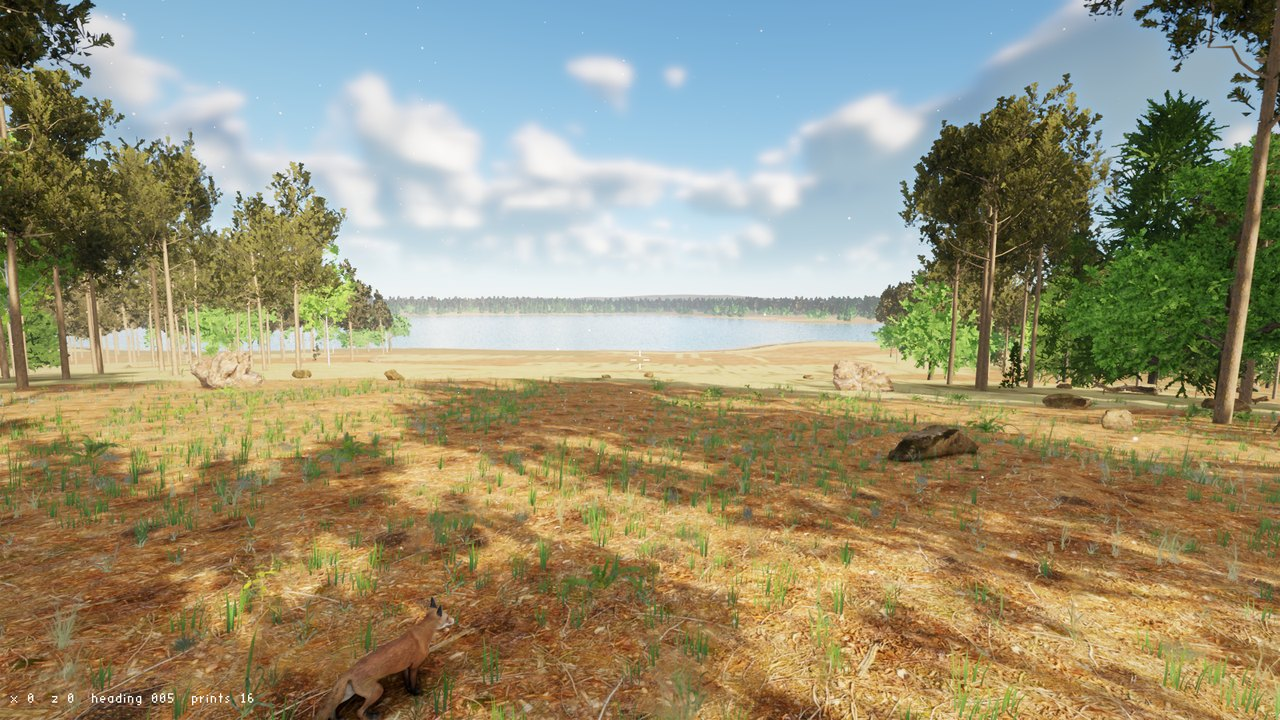
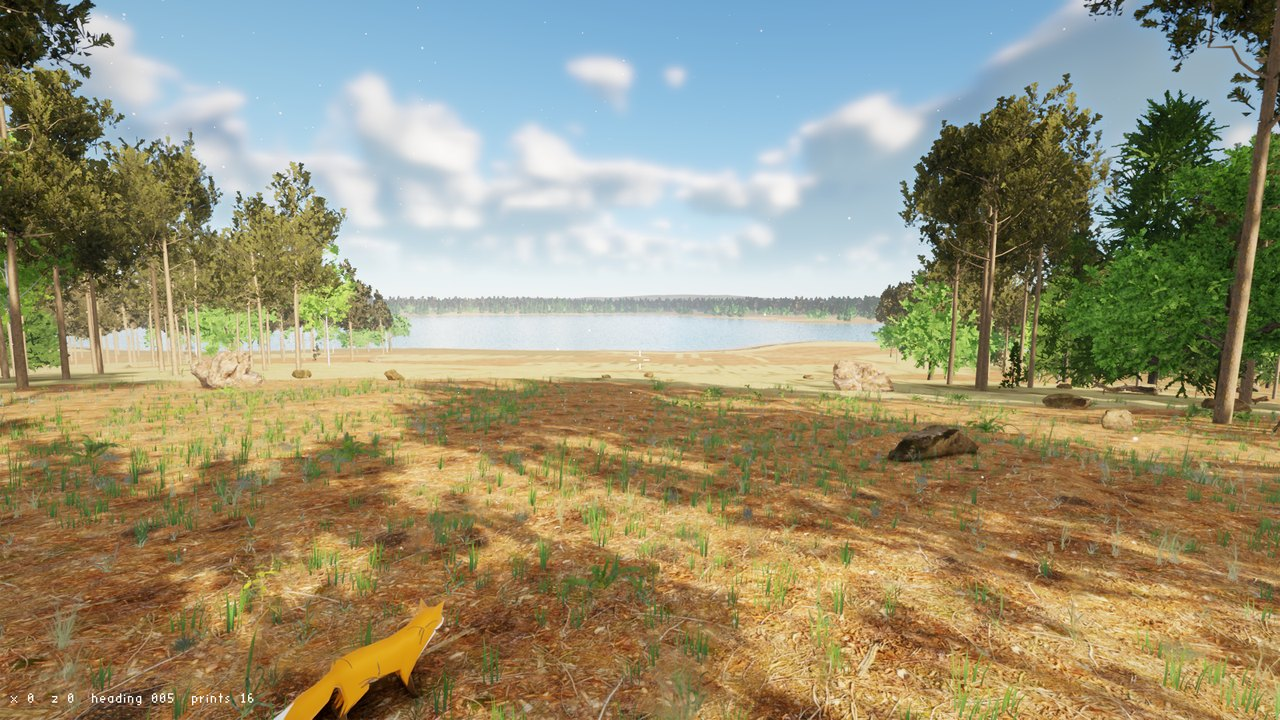
Run forest_scene and model_viewer from the cooked archive alone
Without poligon-assets/source both open poligon-assets/cooked/assets.pak
as it is: forest_scene skips cooking and land generation and reads
assets.txt and forest.level next to itself; model_viewer browses the
models assets.txt names. tools/package_assets.ps1 cooks the release
asset set (CC0 and CC-BY, the Sketchfab fox left out) with the land
into that archive, with tools/assets/ATTRIBUTION.md. The README picture
is retaken with the Khronos fox. CLAUDE.md gets the release entry.

Changed region(s): [[0.2188, 0.825, 0.375, 1.0]]

diff --git a/tools/model_viewer/main.cpp b/tools/model_viewer/main.cpp
@@ -4,7 +4,10 @@
 // CLIP is the name of the animation clip to play (default: the model's first one); C
 // switches to the next clip. With --headless, --ticks N plays N sixtieths of a second
 // before the picture is taken.
-//   Double click (no arguments): browse the models in poligon-assets/source next to the project.
+//   Double click (no arguments): browse the models in poligon-assets/source next to the project,
+//                                or, in a released copy without sources, the models of the
+//                                cooked archive poligon-assets/cooked/assets.pak, by the names
+//                                in assets.txt next to the program.
 //   A folder:                    browse every model in it.
 //   One picture:                 model_viewer tree.glb --headless --dump-frame tree.png
 //
@@ -20,6 +23,8 @@
 #include <vector>
 
 #include "poligon/animation/animation_build.h"
+#include "poligon/assets/assets.h"
+#include "poligon/assets/cooking.h"
 #include "poligon/core/command_line.h"
 #include "poligon/core/crash_handler.h"
 #include "poligon/core/game_loop.h"
@@ -127,6 +132,23 @@ std::vector<std::string> FindDefaultModels(const std::filesystem::path& source) 
     return models;
 }
 
+// The model names of an asset list (released copies: the models of the cooked archive).
+std::vector<std::string> FindListedModels(const std::filesystem::path& list_path) {
+    poligon::AssetList list;
+    std::string error;
+    std::vector<std::string> names;
+    if (!poligon::LoadAssetList(list_path.string().c_str(), list, error)) {
+        std::fprintf(stderr, "model_viewer: %s\n", error.c_str());
+        return names;
+    }
+    for (const poligon::AssetEntry& entry : list.entries) {
+        if (entry.kind == poligon::AssetKind::Model) {
+            names.push_back(entry.name);
+        }
+    }
+    return names;
+}
+
 void PrintModelSummary(const char* path, const poligon::Model& model) {
     const glm::vec3 size = model.bounds_max - model.bounds_min;
     std::printf("model: %s\n", path);
@@ -161,9 +183,12 @@ void PrintModelSummary(const char* path, const poligon::Model& model) {
 
 class ViewerGame : public poligon::Game {
 public:
+    // `library`: when given, model_paths are asset names in it, not files.
     ViewerGame(poligon::Renderer& renderer, const std::vector<std::string>& model_paths, const poligon::Input& input,
-               const ViewerActions& actions, const float view[3], const std::string& start_clip)
-        : renderer_(renderer), model_paths_(model_paths), input_(input), actions_(actions), start_clip_(start_clip) {
+               const ViewerActions& actions, const float view[3], const std::string& start_clip,
+               poligon::AssetLibrary* library = nullptr)
+        : renderer_(renderer), model_paths_(model_paths), input_(input), actions_(actions), start_clip_(start_clip),
+          library_(library) {
         start_view_[0] = view[0];
         start_view_[1] = view[1];
         start_view_[2] = view[2];
@@ -177,24 +202,37 @@ public:
     // current model) if the file cannot be loaded.
     bool ShowModel(size_t index) {
         const std::string& path = model_paths_[index];
-        poligon::Model model;
+        poligon::Model loaded_from_file;
+        const poligon::LoadedModel* cooked = nullptr;
         std::string error;
-        if (!poligon::LoadModelFromFile(path.c_str(), model, error)) {
+        if (library_ != nullptr) {
+            cooked = library_->LoadModel(renderer_, path, error);
+        }
+        if (library_ != nullptr ? cooked == nullptr : !poligon::LoadModelFromFile(path.c_str(), loaded_from_file, error)) {
             std::fprintf(stderr, "model_viewer: %s\n", error.c_str());
             return false;
         }
+        const poligon::Model& model = cooked != nullptr ? cooked->model : loaded_from_file;
         PrintModelSummary(path.c_str(), model);
 
-        poligon::DestroyRenderModel(renderer_, render_model_);
-        render_model_ = poligon::UploadModel(renderer_, model);
+        // A cooked model's render model belongs to the library.
+        player_.reset();
+        if (render_model_owned_) {
+            poligon::DestroyRenderModel(renderer_, render_model_);
+        }
+        render_model_ = cooked != nullptr ? cooked->render : poligon::UploadModel(renderer_, model);
+        render_model_owned_ = cooked == nullptr;
         current_index_ = index;
 
-        // A model with animation clips plays one of them.
-        player_.reset();
+        // A model with animation clips plays one of them (cooked ones come built).
         animations_.reset();
         clip_name_.clear();
-        if (!model.animations.empty()) {
+        if (cooked != nullptr) {
+            animations_ = cooked->animations;
+        } else if (!model.animations.empty()) {
             animations_ = poligon::BuildAnimationSet(model.skeleton, model.animations);
+        }
+        if (animations_ != nullptr) {
             player_ = std::make_unique<poligon::AnimationPlayer>(*animations_);
             const int wanted = animations_->FindClip(start_clip_.c_str());
             if (!start_clip_.empty() && wanted < 0) {
@@ -318,10 +356,12 @@ private:
     const poligon::Input& input_;
     ViewerActions actions_;
     poligon::RenderModel render_model_;
+    bool render_model_owned_ = true;
     std::string start_clip_;
+    poligon::AssetLibrary* library_ = nullptr;
     std::string clip_name_;
     // The player refers to the set, so it is declared after it and destroyed before it.
-    std::unique_ptr<poligon::AnimationSet> animations_;
+    std::shared_ptr<const poligon::AnimationSet> animations_;
     std::unique_ptr<poligon::AnimationPlayer> player_;
     poligon::MeshHandle floor_mesh_;
     poligon::TextureHandle floor_texture_;
@@ -376,13 +416,25 @@ int main(int argc, char** argv) {
     // What to show: one file, every model in a folder, or the default set from poligon-assets.
     std::vector<std::string> model_paths;
     std::error_code file_error;
+    poligon::AssetLibrary library;
+    bool use_library = false;
     if (options.positional.empty()) {
         const std::filesystem::path assets = FindAssetsFolder(argv[0]);
-        if (!assets.empty()) {
+        const std::filesystem::path archive = assets / "cooked" / "assets.pak";
+        const std::filesystem::path list = std::filesystem::absolute(argv[0], file_error).parent_path() / "assets.txt";
+        if (!assets.empty() && std::filesystem::is_directory(assets / "source", file_error)) {
             model_paths = FindDefaultModels(assets / "source");
+        } else if (!assets.empty() && std::filesystem::is_regular_file(archive, file_error) &&
+                   std::filesystem::is_regular_file(list, file_error)) {
+            if (library.Open(archive.string().c_str(), error)) {
+                model_paths = FindListedModels(list);
+                use_library = true;
+            }
+            error.clear();
         }
         if (model_paths.empty()) {
-            error = "No models found. Expected a folder named poligon-assets (with source inside) next to the project folder, "
+            error = "No models found. Expected a folder named poligon-assets next to the project folder (with source inside) "
+                    "or next to the program (with cooked/assets.pak inside, and assets.txt next to the program), "
                     "or start the viewer with a model file: drag a .gltf or .glb file onto model_viewer.exe.";
         }
     } else if (std::filesystem::is_directory(options.positional[0], file_error)) {
@@ -424,7 +476,7 @@ int main(int argc, char** argv) {
     loop_config.input = &input;
 
     const std::string start_clip = options.positional.size() > 4 ? options.positional[4] : std::string();
-    ViewerGame game(renderer, model_paths, input, actions, view, start_clip);
+    ViewerGame game(renderer, model_paths, input, actions, view, start_clip, use_library ? &library : nullptr);
     // Show the first model that loads.
     size_t first = 0;
     while (first < model_paths.size() && !game.ShowModel(first)) {

diff --git a/tools/forest_scene/main.cpp b/tools/forest_scene/main.cpp
@@ -5,11 +5,14 @@
 // loaded from build/terrain_cache. The models and textures are named in assets.txt (next to
 // this file); their sources are in poligon-assets/source, and they are cooked into
 // poligon-assets/cooked when the program starts, whenever the list or a source changed
-// (poligon/assets/assets.h). The land's settings, its ground layers, the player's start,
-// things put by hand and the rules that plant the forest, the shore and the ground cover are
-// in forest.level (poligon/world/level.h, poligon/world/plant_rules.h). The land is streamed
-// (poligon/world/streaming.h): cooked into 512 m patches with the other assets, and loaded
-// in a window around the camera. Walking flattens grass into paths (poligon/world/trample.h).
+// (poligon/assets/assets.h). A released copy has no sources: then poligon-assets/cooked holds
+// one archive, assets.pak (made by tools/package_assets.ps1), with the land already cooked,
+// and assets.txt and forest.level lie next to the program. The land's settings, its ground
+// layers, the player's start, things put by hand and the rules that plant the forest, the
+// shore and the ground cover are in forest.level (poligon/world/level.h,
+// poligon/world/plant_rules.h). The land is streamed (poligon/world/streaming.h): cooked into
+// 512 m patches with the other assets, and loaded in a window around the camera. Walking
+// flattens grass into paths (poligon/world/trample.h).
 //
 // Usage: forest_scene [X Z TURN TILT [collision] [lights]] [standard Poligon options]
 //   X Z         where to stand, in meters from the start (default 0 0): a slope above
@@ -615,10 +618,20 @@ private:
     }
 
     // Cooks what changed since the last run (sources in poligon-assets/source, cooked files
-    // in poligon-assets/cooked) and opens the cooked folder.
+    // in poligon-assets/cooked) and opens the cooked folder. Without sources it opens the
+    // archive cooked/assets.pak instead.
     void OpenAssets(const std::filesystem::path& list_path, const std::filesystem::path& cooked) {
         poligon::AssetList list;
         std::string error;
+        std::error_code exists_error;
+        cooked_only_ = !std::filesystem::is_directory(sources_, exists_error);
+        if (cooked_only_) {
+            const std::filesystem::path archive = cooked / "assets.pak";
+            if (!library_.Open(archive.string().c_str(), error)) {
+                std::printf("forest_scene: %s\n", error.c_str());
+            }
+            return;
+        }
         if (!poligon::LoadAssetList(list_path.string().c_str(), list, error)) {
             std::printf("forest_scene: %s\n", error.c_str());
         } else {
@@ -678,7 +691,9 @@ private:
         std::string error;
         bool cooked = false;
         const auto started = std::chrono::steady_clock::now();
-        if (!poligon::CookLevelWorld(level_, ground_layers_, cooked_.string().c_str(), terrain_cache_.string().c_str(), cooked, error)) {
+        // A released copy has the land in its archive already.
+        if (!cooked_only_ &&
+            !poligon::CookLevelWorld(level_, ground_layers_, cooked_.string().c_str(), terrain_cache_.string().c_str(), cooked, error)) {
             poligon::FatalError(("forest_scene: " + error).c_str());
         }
         std::printf("forest_scene: land %s in %.1f s\n", cooked ? "generated and cooked into patches" : "cooked already",
@@ -1152,6 +1167,8 @@ private:
 
     poligon::Renderer& renderer_;
     std::filesystem::path sources_;
+    // No sources: the cooked archive is used as it is (a released copy).
+    bool cooked_only_ = false;
     const poligon::Input& input_;
     ForestActions actions_;
 
@@ -1482,8 +1499,10 @@ int main(int argc, char** argv) {
 
     const std::filesystem::path assets = FindAssetsFolder(argv[0]);
     std::error_code assets_error;
-    if (assets.empty() || !std::filesystem::is_directory(assets / "source", assets_error)) {
-        const char* message = "No folder named poligon-assets, with the asset sources in its folder source, found next to the project folder.";
+    if (assets.empty() || (!std::filesystem::is_directory(assets / "source", assets_error) &&
+                           !std::filesystem::is_regular_file(assets / "cooked" / "assets.pak", assets_error))) {
+        const char* message = "No folder named poligon-assets found next to the program or the project folder, with the asset "
+                              "sources in its folder source or the cooked archive cooked/assets.pak.";
         std::fprintf(stderr, "forest_scene: %s\n", message);
         if (started_by_hand) {
             poligon::ShowMessageBox("Poligon forest scene", message);
@@ -1544,11 +1563,15 @@ int main(int argc, char** argv) {
 
     const auto load_start = std::chrono::steady_clock::now();
     // Generated land is kept in the build folder (the program runs from build/PRESET/bin);
-    // the asset list is in the project's tools/forest_scene.
+    // the asset list and the level are in the project's tools/forest_scene, or, in a released
+    // copy, next to the program.
     std::error_code path_error;
-    const std::filesystem::path build_folder =
-        std::filesystem::absolute(argv[0], path_error).parent_path().parent_path().parent_path();
-    const std::filesystem::path scene_folder = build_folder.parent_path() / "tools" / "forest_scene";
+    const std::filesystem::path program_folder = std::filesystem::absolute(argv[0], path_error).parent_path();
+    const std::filesystem::path build_folder = program_folder.parent_path().parent_path();
+    std::filesystem::path scene_folder = build_folder.parent_path() / "tools" / "forest_scene";
+    if (std::filesystem::is_regular_file(program_folder / "forest.level", path_error)) {
+        scene_folder = program_folder;
+    }
     ForestGame game(renderer, assets, build_folder, scene_folder / "assets.txt", scene_folder / "forest.level", input, actions, view,
                     options.positional.size() >= 3, settings, settings_path, options.headless);
     const auto has_word = [&options](const char* word) {

diff --git a/tools/assets/ATTRIBUTION.md b/tools/assets/ATTRIBUTION.md
@@ -1,0 +1,84 @@
+# Assets of the Poligon release archive: authors, sources and licenses
+
+The archive `cooked/assets.pak` holds the assets below, cooked by Poligon's `asset_cooker`
+(textures block-compressed and some made smaller, meshes with simpler levels of detail made
+in Blender, animations converted to ozz-animation archives). Licenses were checked at their
+sources on 2026-10-26.
+
+- **CC0 1.0** (https://creativecommons.org/publicdomain/zero/1.0/): no conditions; the authors
+  are named here as thanks.
+- **CC-BY 4.0** (https://creativecommons.org/licenses/by/4.0/): may be shared and changed for
+  any purpose, as long as the authors are credited as below. Changes made: converted to
+  Poligon's cooked format.
+- **MIT** (text below): may be used for any purpose, as long as the copyright notice and the
+  license text go with it.
+
+## Made by Poligon itself (MIT, the license of Poligon)
+
+- The land: made by the engine's terrain generator from the settings in `forest.level`.
+- Tree meshes (pine, spruce, birch, oak, two of each, young pine and spruce): generated by
+  `tools/assets/make_tree.mjs` with EZ-Tree (https://github.com/dgreenheck/ez-tree, MIT,
+  Copyright (c) 2024 Daniel Greenheck) from our recipes; the textures on them are listed below.
+- Tree impostors (pictures of the trees from many sides): baked by Poligon's `impostor_baker`.
+- Reeds, cattails, water lilies, grass blades and flowers: made by code at run time, not stored.
+
+## Models
+
+| Asset | Title and author | Source | License |
+|---|---|---|---|
+| `animals/fox_sample` | "Fox": model by PixelMannen (CC0); rigging and animation by tomkranis (CC-BY 4.0); conversion to glTF by @AsoboStudio and @scurest (CC-BY 4.0) | https://github.com/KhronosGroup/glTF-Sample-Assets/tree/main/Models/Fox | CC0 1.0 and CC-BY 4.0 |
+| `plants/shrub` | "Shrub 02" by Rico Cilliers | https://polyhaven.com/a/shrub_02 | CC0 1.0 |
+| `plants/low_shrub` | "Shrub 03" by Rico Cilliers | https://polyhaven.com/a/shrub_03 | CC0 1.0 |
+| `plants/fern` | "Fern 02" by Rob Tuytel, Rico Cilliers | https://polyhaven.com/a/fern_02 | CC0 1.0 |
+| `plants/nettle` | "Nettle Plant" by Rob Tuytel, Rico Cilliers | https://polyhaven.com/a/nettle_plant | CC0 1.0 |
+| `plants/grass` | "Grass Bermuda 01" by Rico Cilliers | https://polyhaven.com/a/grass_bermuda_01 | CC0 1.0 |
+| `plants/grass_medium` | "Grass Medium 01" by Rob Tuytel, Rico Cilliers | https://polyhaven.com/a/grass_medium_01 | CC0 1.0 |
+| `plants/grass_tall` | "Grass Medium 02" by Rico Cilliers | https://polyhaven.com/a/grass_medium_02 | CC0 1.0 |
+| `rocks/boulder` | "Boulder 01" by Rico Cilliers | https://polyhaven.com/a/boulder_01 | CC0 1.0 |
+| `rocks/mossy_rocks` | "Rock Moss Set 01" by Kless Gyzen | https://polyhaven.com/a/rock_moss_set_01 | CC0 1.0 |
+| `wood/stump` | "Tree Stump 01" by Rob Tuytel | https://polyhaven.com/a/tree_stump_01 | CC0 1.0 |
+| `wood/fallen_trunk` | "Dead Tree Trunk 02" by Jenelle van Heerden, Rico Cilliers | https://polyhaven.com/a/dead_tree_trunk_02 | CC0 1.0 |
+
+## Textures
+
+| Used for | Title and author | Source | License |
+|---|---|---|---|
+| ground `forest_floor` | "Forest Ground 01" by Rob Tuytel | https://polyhaven.com/a/forrest_ground_01 | CC0 1.0 |
+| ground `litter` | "Forest Leaves 04" by Rob Tuytel | https://polyhaven.com/a/forest_leaves_04 | CC0 1.0 |
+| ground `grass` | "Grass Ground" by Charlotte Baglioni | https://polyhaven.com/a/grass_ground | CC0 1.0 |
+| ground `mud` | "Brown Mud 02" by Rob Tuytel | https://polyhaven.com/a/brown_mud_02 | CC0 1.0 |
+| ground `sand` | "Gravelly Sand" by Dario Barresi | https://polyhaven.com/a/gravelly_sand | CC0 1.0 |
+| ground `stones` | "River Small Rocks" by Rob Tuytel, Rico Cilliers | https://polyhaven.com/a/river_small_rocks | CC0 1.0 |
+| ground `rock` | "Aerial Rocks 02" by Rob Tuytel | https://polyhaven.com/a/aerial_rocks_02 | CC0 1.0 |
+| pine twigs | "Pine Tree 01" (its twig texture) by Rob Tuytel, Rico Cilliers | https://polyhaven.com/a/pine_tree_01 | CC0 1.0 |
+| spruce bark and twigs | "Fir Tree 01" (its bark and twig textures) by Rob Tuytel, Rico Cilliers | https://polyhaven.com/a/fir_tree_01 | CC0 1.0 |
+| pine bark | "Bark 014" | https://ambientcg.com/view?id=Bark014 | CC0 1.0 |
+| oak bark | "Bark Brown 02" by Rob Tuytel, as shipped with EZ-Tree | https://polyhaven.com/a/bark_brown_02 | CC0 1.0 |
+| birch bark | "Birch Tree Bark Texture (Wood 0027)", as shipped with EZ-Tree | https://www.texturecan.com/details/221/ | CC0 1.0 |
+| birch leaves (`aspen_color.png`), oak leaves (`oak_color.png`) | shipped with EZ-Tree by Daniel Greenheck; no other source named | https://github.com/dgreenheck/ez-tree | MIT (the license of EZ-Tree, below) |
+
+## The MIT license of EZ-Tree
+
+```
+MIT License
+
+Copyright (c) 2024 Daniel Greenheck
+
+Permission is hereby granted, free of charge, to any person obtaining a copy
+of this software and associated documentation files (the "Software"), to deal
+in the Software without restriction, including without limitation the rights
+to use, copy, modify, merge, publish, distribute, sublicense, and/or sell
+copies of the Software, and to permit persons to whom the Software is
+furnished to do so, subject to the following conditions:
+
+The above copyright notice and this permission notice shall be included in all
+copies or substantial portions of the Software.
+
+THE SOFTWARE IS PROVIDED "AS IS", WITHOUT WARRANTY OF ANY KIND, EXPRESS OR
+IMPLIED, INCLUDING BUT NOT LIMITED TO THE WARRANTIES OF MERCHANTABILITY,
+FITNESS FOR A PARTICULAR PURPOSE AND NONINFRINGEMENT. IN NO EVENT SHALL THE
+AUTHORS OR COPYRIGHT HOLDERS BE LIABLE FOR ANY CLAIM, DAMAGES OR OTHER
+LIABILITY, WHETHER IN AN ACTION OF CONTRACT, TORT OR OTHERWISE, ARISING FROM,
+OUT OF OR IN CONNECTION WITH THE SOFTWARE OR THE USE OR OTHER DEALINGS IN THE
+SOFTWARE.
+```

diff --git a/CLAUDE.md b/CLAUDE.md
@@ -37,6 +37,7 @@ This file is the table of contents and the rule book. Details live in topic file
 - On 2026-10-25 and 2026-10-26 (packages 3a and 3b of the author's list for a theHunter Classic port): world positions are double and the renderer draws relative to the camera (Jolt built with double precision from `ports/joltphysics`); the world is streamed by patches (`poligon/world/streaming.h`, `land.h`): the generated land is cooked whole into 512 m patch files, and terrain, collisions, water, plants and sky occlusion are loaded in windows around the camera or the player, with a coarse far background; `forest_scene` runs on it. Decided on 2026-10-26: the terrain generator stays a simulation of the whole land, run when the land is cooked (a 32 km reserve would need a tiled generator later).
 - Package 4 (2026-10-26): render targets for a second camera (`Renderer::CreateRenderTarget`), blended transparency (`Material::blend`), the sky from Hillaire's atmosphere model with the sun placed by time of day, day and latitude (`poligon/render/sky.h`, `SkyModel::Atmosphere`, used by `forest_scene`), point and spot lights with screen tiles on the processor and up to four spot shadows (`Renderer::DrawLight`). Over 800 frames medium is 6.3 to 9.0 ms in the four views and high 8.8 to 13.5 ms (0.4 to 0.7 ms more than before the package). 16 lights cost 0.7 to 2.1 ms depending on range and preset, above the 0.5 ms asked for; the author decides what next. Moon, stars and the night sky are not done.
 - Package 5 (2026-10-26): leaving out what hills hide (`poligon/world/terrain_occlusion.h`), occlusion culling by the depth of an earlier frame (on from high), AgX tone mapping, Intel's XeGTAO in place of our ambient occlusion. FSR 2 was stopped: as it is it does not fit SDL GPU's bindings; `docs/en/rendering_roadmap.md` gives what it would take. Over 800 frames at 1920 x 1080 on the GTX 980: low 3.5 to 4.9 ms in the four views, medium 6.1 to 8.5, high 8.7 to 13.2, ultra 18.6 to 35.3.
+- Release 0.1.0 (2026-10-26): the engine under MIT (`LICENSE`, holder Hubmac), `THIRD_PARTY_LICENSES.md`, `README.md` and `README.pl.md`, the program package made by `tools\package.ps1` (dynamic C++ runtime: the VC++ Redistributable is required) and the asset archive made by `tools\package_assets.ps1` (only CC0, CC-BY and approved assets, `tools\assets\ATTRIBUTION.md`); `forest_scene` and `model_viewer` run from the cooked archive alone. Local annotated tag `v0.1.0`; the author adds the remote and the GitHub Release.
 - Decided on 2026-10-15: `forest_scene` moves from the Batorz map to terrain generated by the engine. The TIFF reader, `HeightMap` and the Batorz data in `poligon-assets` stay; nothing is deleted.
 - The terrain is real: the middle 6 x 6 km around Batorz (50.861443 N, 22.496135 E) from Geoportal, one height per meter, at scale 1:1 (squeezing it to pronounce the hills was tried on paper and dropped by the author on 2026-10-14; the land has enough gullies as it is). Data and maps are in `poligon-assets/source/terrain/batorz`. Done: `HeightMap`, the TIFF reader, `terrain_tool`, `Terrain` (patches from a quadtree, heights read from an image in the vertex shader, ground layers from texture arrays and weight maps), height-field physics. `forest_scene` used it until 2026-10-15 and now runs on generated terrain (cached in `build/terrain_cache`), starting on a hill with a lake in view.
 - Asset system, agreed on 2026-10-14, built in full from 2026-10-15 to 2026-10-17 (the last part: clips cooked as ozz-animation archives): (1) one game data folder with `source` and `cooked` halves, (2) an asset list in the repository giving every asset a name and its settings, (3) `asset_cooker` that turns sources into fast-loading files (compressed textures, meshes with levels of detail, ozz animations), (4) loading by name through one entry point, (5) a level file in plain text (terrain, light, plant rules, placed objects, player start), (6) for a released game, archives in a format of our own with hashed names and **no encryption** (the author chose the middle level: keeps casual hands out, like theHunter's archives; encryption was judged not worth it). Text formats follow the style of the render settings file.

diff --git a/docs/pl/assets.md b/docs/pl/assets.md
@@ -61,6 +61,22 @@ const poligon::CompressedImage* layer = library.LoadImage("ground/litter_color",
 - `LoadedModel` trzyma dane modelu (wierzchołki dla fizyki i rozstawiania, szkielet, klipy), jego `RenderModel`, siatki prostszych poziomów (także ze szkieletem, pozowane szkieletem pełnego modelu) i impostor. `MakeMeshLodGroup(loaded, instance, distances)` zamienia jedną siatkę i jej prostsze poziomy w `MeshLodGroup` dla `Renderer::DrawMesh` lub `DrawSkinnedMesh` (patrz rendering.md).
 - `Renderer::CreateTexture(const CompressedImage&)` i `CreateTextureArray(const CompressedImage*, count)` przyjmują wypieczone obrazy tak, jak są; `CreateImpostor` ma wersję dla skompresowanych obrazów.
 
+## Archiwum zasobów wydania
+
+`tools\package_assets.ps1` robi `poligon-WERSJA-assets.zip` do wydania: zasoby z
+`tools\forest_scene\assets.txt` bez tych wymienionych w `-Exclude` (zasobów, których licencja
+nie pozwala ich rozdawać; domyślnie `animals/fox`, którego licencja jest niejasna), wypieczone
+od nowa z `poligon-assets\source` razem z lądem z `forest.level` i spakowane do
+`poligon-assets\cooked\assets.pak`, z `ATTRIBUTION.md` (z `tools\assets\ATTRIBUTION.md`:
+autor, tytuł, odnośnik i licencja każdego zasobu) i `README.txt`. Bez `-Zip` kończy na
+folderze, żeby listę można było najpierw sprawdzić.
+
+Wydana kopia nie ma źródeł: `forest_scene` i `model_viewer` znajdują `poligon-assets` we
+własnym folderze albo w folderze nad nim, widzą, że brak `source`, i otwierają
+`cooked\assets.pak` tak, jak jest; `forest_scene` nie wypieka wtedy zasobów ani nie generuje
+lądu, a `assets.txt` i `forest.level` czyta obok siebie. `model_viewer` bez argumentów pokazuje
+modele, które wymienia `assets.txt` obok niego.
+
 ## Rośliny z modeli
 
 `MakePlantKind(model, settings, vegetation)` (`poligon/world/plants.h`) zamienia wczytany model w rodzaj rośliny, kamienia albo martwego drewna i dodaje jego odmiany do `Vegetation`:

diff --git a/docs/en/assets.md b/docs/en/assets.md
@@ -61,6 +61,22 @@ const poligon::CompressedImage* layer = library.LoadImage("ground/litter_color",
 - `LoadedModel` holds the model data (vertices for physics and placement, skeleton, clips), its `RenderModel`, the simpler levels' meshes (skinned ones too, posed by the full model's skeleton) and the impostor. `MakeMeshLodGroup(loaded, instance, distances)` turns one mesh and its simpler levels into a `MeshLodGroup` for `Renderer::DrawMesh` or `DrawSkinnedMesh` (see rendering.md).
 - `Renderer::CreateTexture(const CompressedImage&)` and `CreateTextureArray(const CompressedImage*, count)` take cooked images as they are; `CreateImpostor` has an overload for compressed pictures.
 
+## The release asset archive
+
+`tools\package_assets.ps1` makes `poligon-VERSION-assets.zip` for a release: the assets of
+`tools\forest_scene\assets.txt` without those named in `-Exclude` (assets whose license does
+not allow them to be given away; by default `animals/fox`, whose license is unclear), cooked
+fresh from `poligon-assets\source` with the land of `forest.level` and packed into
+`poligon-assets\cooked\assets.pak`, with `ATTRIBUTION.md` (from `tools\assets\ATTRIBUTION.md`:
+author, title, link and license of every asset) and `README.txt`. Without `-Zip` it stops after
+the folder, so the list can be checked first.
+
+A released copy has no sources: `forest_scene` and `model_viewer` find `poligon-assets` in
+their own folder or a folder above it, see that `source` is missing and open
+`cooked\assets.pak` as it is; `forest_scene` then neither cooks assets nor generates the land,
+and reads `assets.txt` and `forest.level` next to itself. `model_viewer` without arguments
+shows the models that `assets.txt` next to it names.
+
 ## Plants from models
 
 `MakePlantKind(model, settings, vegetation)` (`poligon/world/plants.h`) turns a loaded model into a kind of plant, rock or dead wood and adds its variants to a `Vegetation`:
